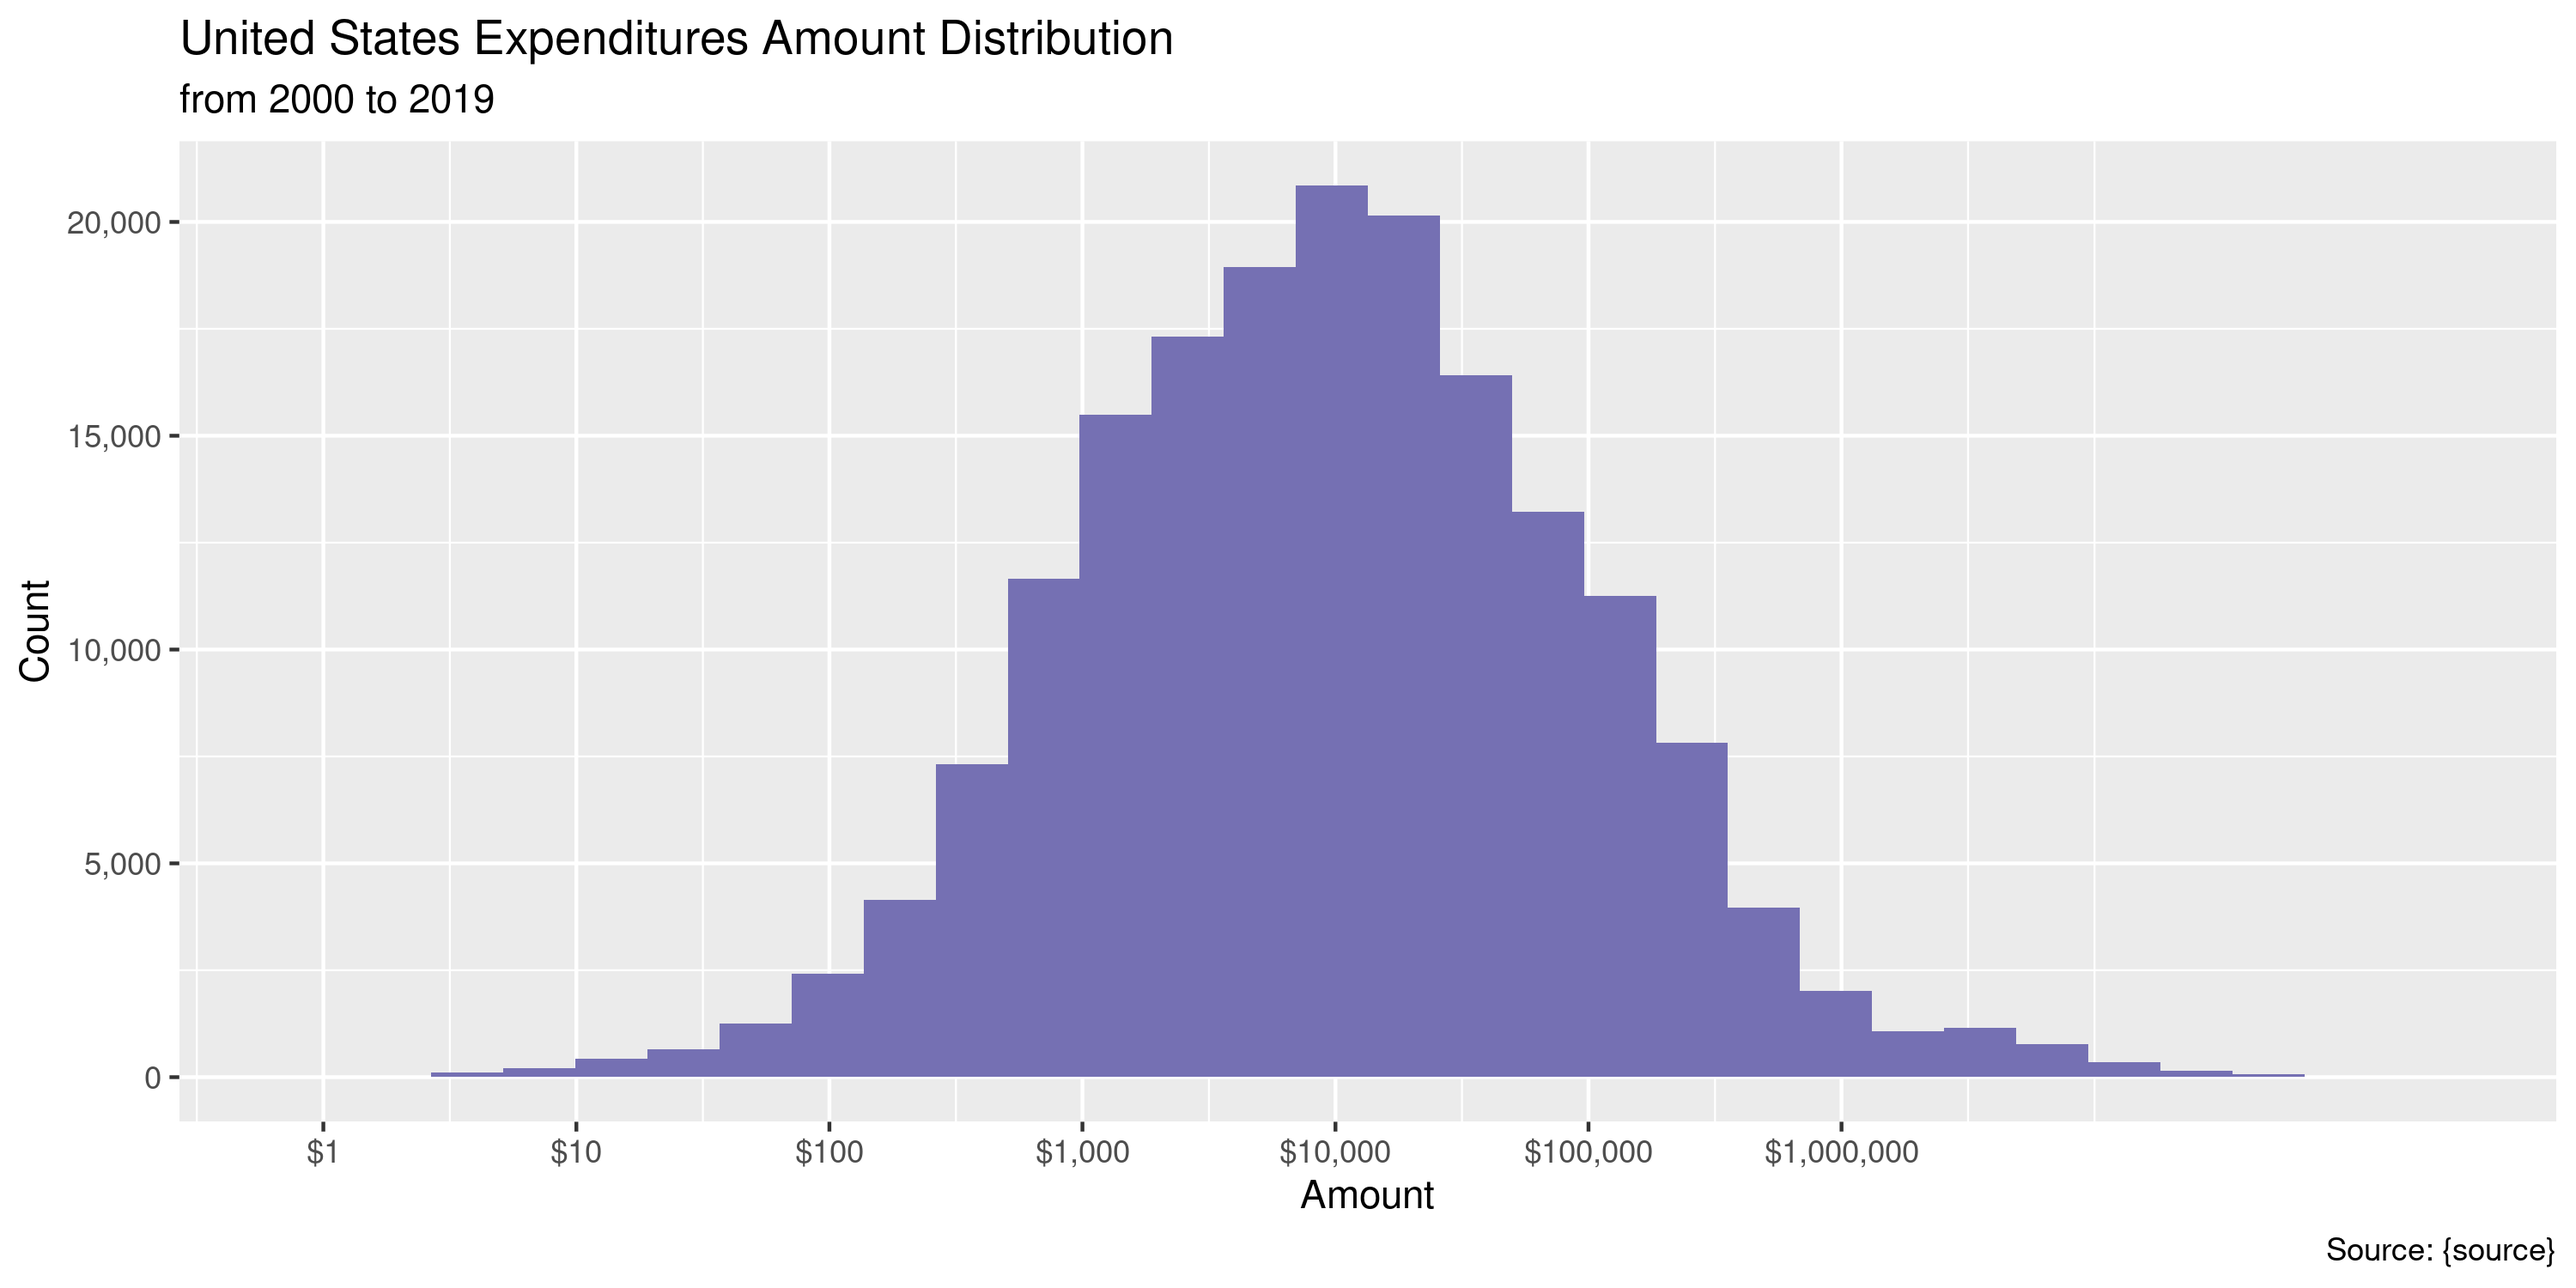
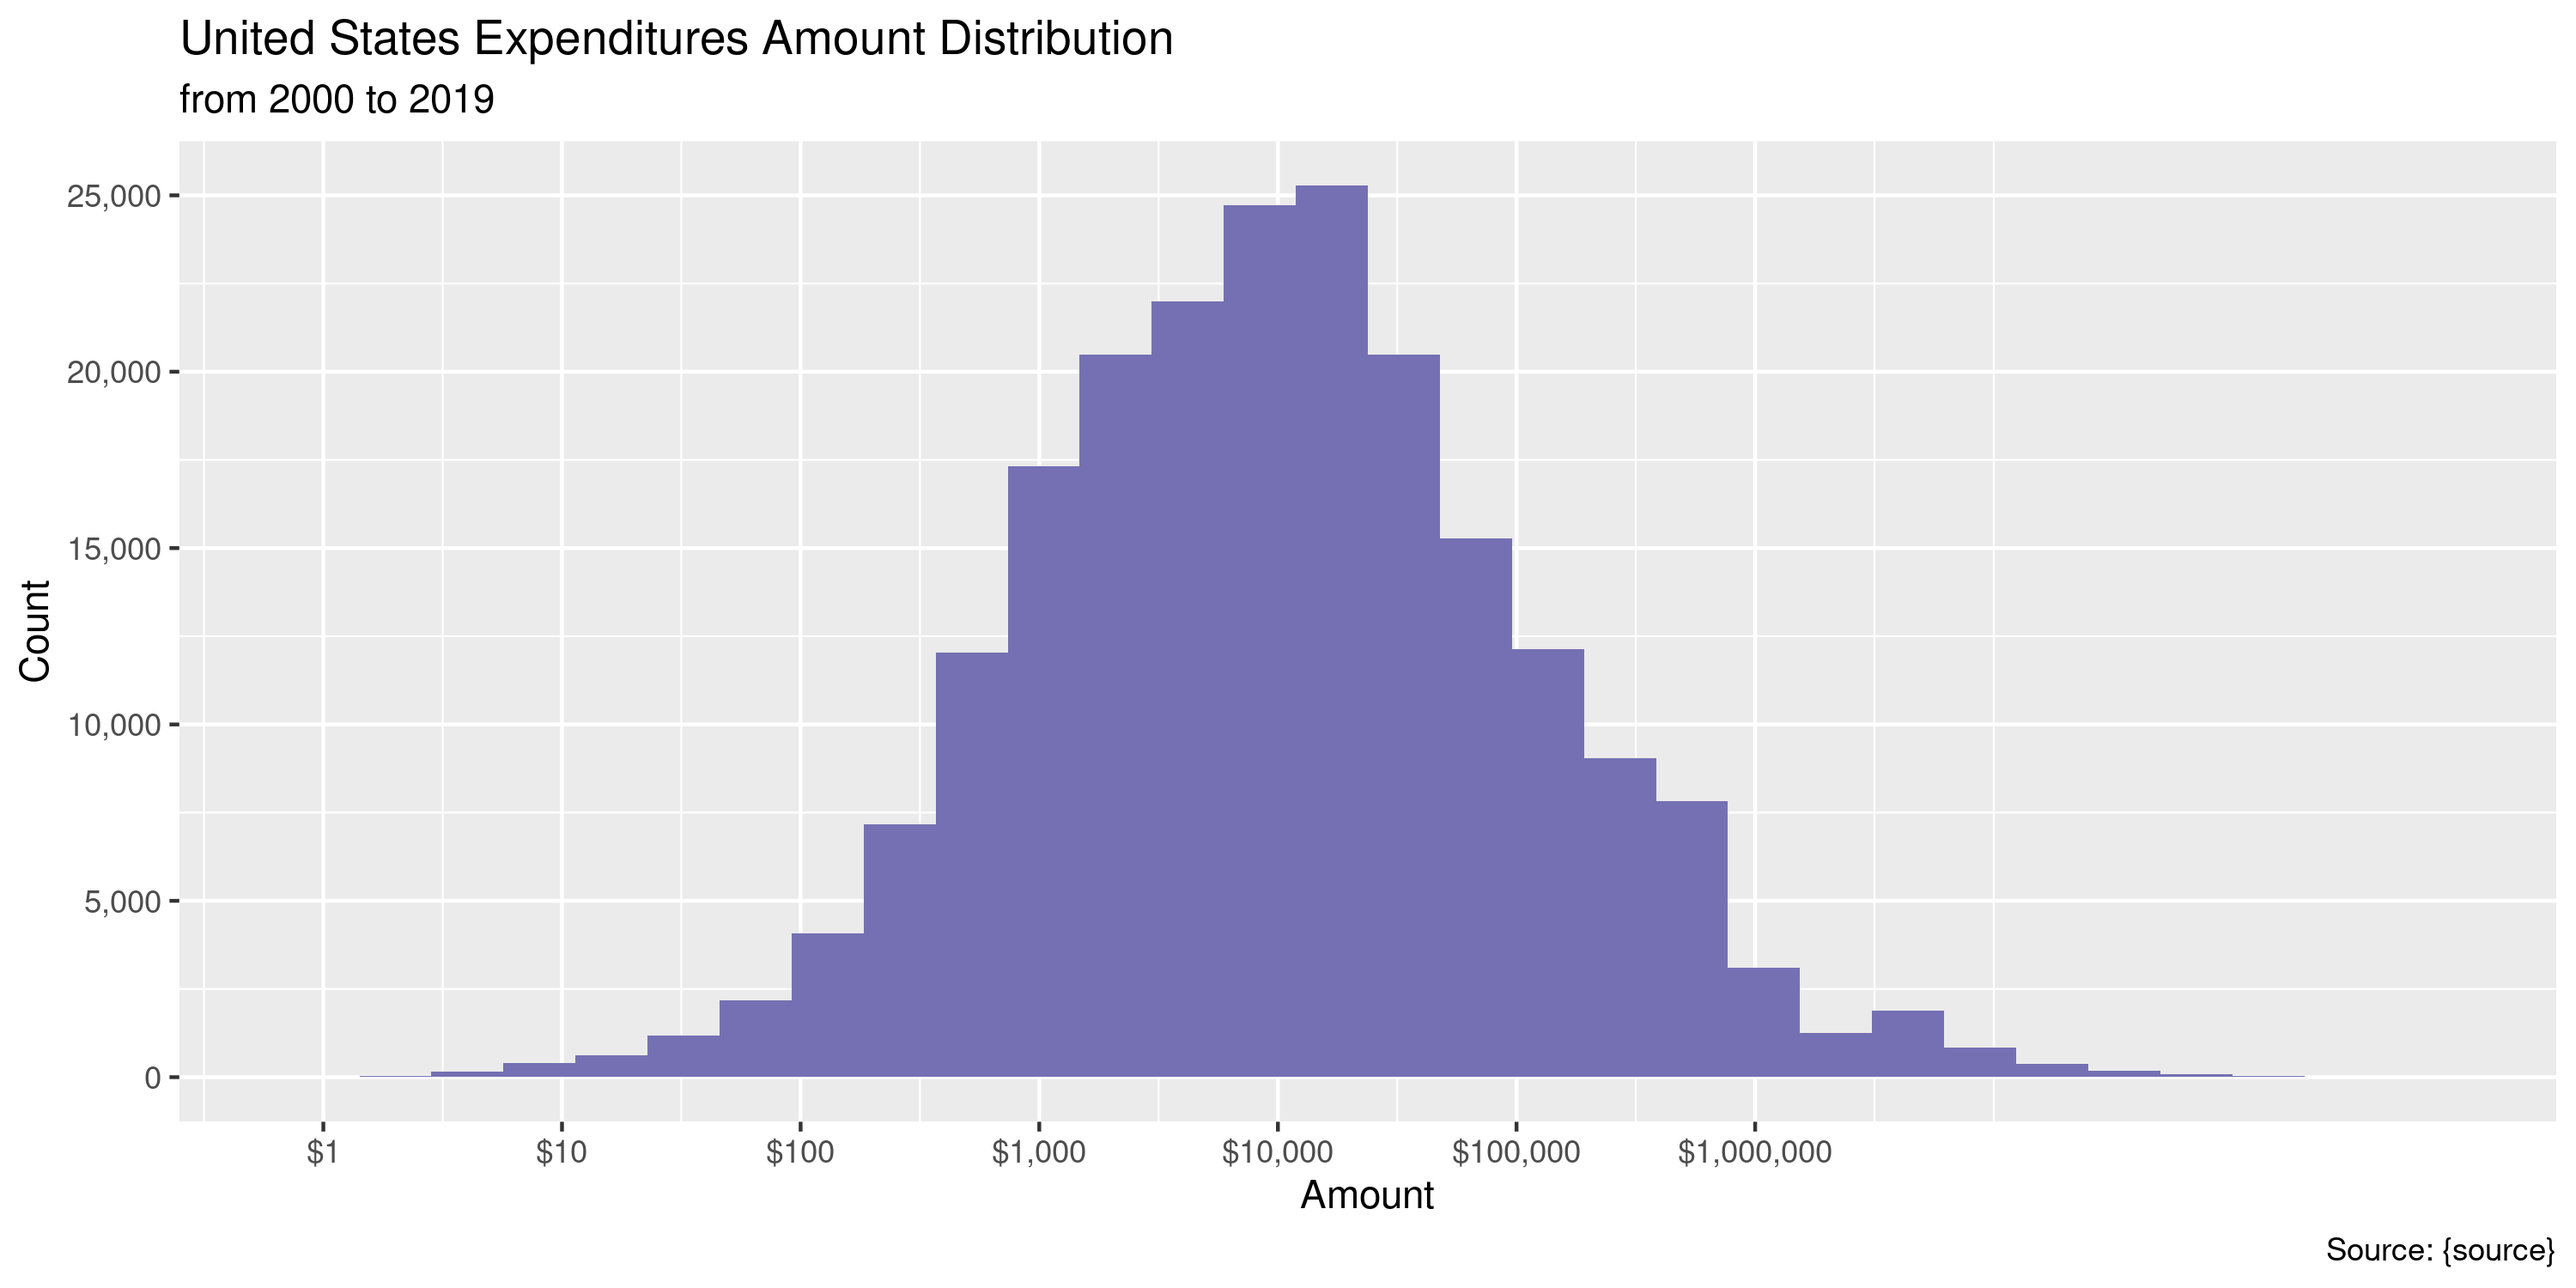
Update HHS provider releif
Add 30,850 new records

diff --git a/R_campfin/us/covid/hhs_relief/docs/hhs_provider_relief.md b/R_campfin/us/covid/hhs_relief/docs/hhs_provider_relief.md
@@ -1,7 +1,7 @@
 HHS Provider Relief Fund
 ================
 Kiernan Nicholls
-2020-05-22 14:35:27
+2020-06-23 13:13:58
 
   - [Project](#project)
   - [Objectives](#objectives)
@@ -162,23 +162,23 @@ alphabetically.
 
 ``` r
 glimpse(hhspr)
-#> Rows: 179,305
+#> Rows: 210,155
 #> Columns: 5
 #> $ agency   <chr> "Health Resources and Services Administration", "Health Resources and Services …
-#> $ provider <chr> "Eastern Aleutian Tribes, Inc.", "Elizabeth Watney", "A Joint Effort Physical T…
+#> $ provider <chr> "Elizabeth Watney", "A Joint Effort Physical Therapy Inc", "Aa Pain Clinic, Inc…
 #> $ state    <chr> "AK", "AK", "AK", "AK", "AK", "AK", "AK", "AK", "AK", "AK", "AK", "AK", "AK", "…
-#> $ city     <chr> "ADAK", "ANCHOR POINT", "ANCHORAGE", "ANCHORAGE", "ANCHORAGE", "ANCHORAGE", "AN…
-#> $ payment  <dbl> 2538, 724, 5953, 69976, 33655, 2813, 8781, 27497, 10823, 50053, 217156, 39435, …
+#> $ city     <chr> "ANCHOR POINT", "ANCHORAGE", "ANCHORAGE", "ANCHORAGE", "ANCHORAGE", "ANCHORAGE"…
+#> $ payment  <dbl> 724, 5953, 69976, 1181, 33655, 6301, 9327, 10555, 8781, 28000, 4616, 10823, 129…
 tail(hhspr)
 #> # A tibble: 6 x 5
-#>   agency                                       provider                      state city    payment
-#>   <chr>                                        <chr>                         <chr> <chr>     <dbl>
-#> 1 Health Resources and Services Administration Peak Physical Therapy Inc     WY    WILSON     9302
-#> 2 Health Resources and Services Administration Cloud Peak Chiropractic, P.C. WY    WORLAND    2961
-#> 3 Health Resources and Services Administration Cloud Peak Counseling Center  WY    WORLAND    3083
-#> 4 Health Resources and Services Administration County Of Washakie            WY    WORLAND   13861
-#> 5 Health Resources and Services Administration Washakie Medical Center       WY    WORLAND  769007
-#> 6 Health Resources and Services Administration Worland Pharmacy Inc          WY    WORLAND     137
+#>   agency                          provider                                     state city   payment
+#>   <chr>                           <chr>                                        <chr> <chr>    <dbl>
+#> 1 Health Resources and Services … Cloud Peak Chiropractic, P.C.                WY    WORLA…    2961
+#> 2 Health Resources and Services … Cloud Peak Counseling Center                 WY    WORLA…    3083
+#> 3 Health Resources and Services … County Of Washakie                           WY    WORLA…   13861
+#> 4 Health Resources and Services … Urological Services Of Northern Wyoming Pro… WY    WORLA…    8883
+#> 5 Health Resources and Services … Worland Pharmacy Inc                         WY    WORLA…     137
+#> 6 Health Resources and Services … Worland Physical Therapy                     WY    WORLA…   11498
 ```
 
 ### Missing
@@ -197,23 +197,14 @@ col_stats(hhspr, count_na)
 #> 5 payment  <dbl>     0     0
 ```
 
-### Duplicates
-
-There are no duplicate records.
-
-``` r
-hhspr <- flag_dupes(hhspr, everything())
-#> Warning in flag_dupes(hhspr, everything()): no duplicate rows, column not created
-```
-
 ### Amounts
 
-The `payment` values range from $1 to $180,264,488.
+The `payment` values range from $1 to $567,285,060.
 
 ``` r
 noquote(map_chr(summary(hhspr$payment), dollar))
 #>         Min.      1st Qu.       Median         Mean      3rd Qu.         Max. 
-#>           $1       $1,960       $9,462     $190,115      $43,502 $180,264,488
+#>           $1       $1,910       $9,740     $266,501      $46,724 $567,285,060
 mean(hhspr$payment <= 0) # no negatives
 #> [1] 0
 ```
@@ -225,12 +216,12 @@ hhspr[which.min(hhspr$payment), ]
 #> # A tibble: 1 x 5
 #>   agency                                       provider                       state city  payment
 #>   <chr>                                        <chr>                          <chr> <chr>   <dbl>
-#> 1 Health Resources and Services Administration Your Doctor'S After Hours, Llc GA    MACON       1
+#> 1 Health Resources and Services Administration Your Doctor'S After Hours, Llc GA    GRAY        1
 hhspr[which.max(hhspr$payment), ]
 #> # A tibble: 1 x 5
-#>   agency                                       provider       state city      payment
-#>   <chr>                                        <chr>          <chr> <chr>       <dbl>
-#> 1 Health Resources and Services Administration Dignity Health AZ    PHOENIX 180264488
+#>   agency                                  provider                           state city     payment
+#>   <chr>                                   <chr>                              <chr> <chr>      <dbl>
+#> 1 Health Resources and Services Administ… The New York And Presbyterian Hos… NY    NEW YO…   5.67e8
 ```
 
 The distribution of `payment` is logarithmically-normally distributed, a
@@ -258,16 +249,16 @@ add_prop(count(hhspr, state, sort = TRUE))
 #> # A tibble: 55 x 3
 #>    state     n      p
 #>    <chr> <int>  <dbl>
-#>  1 CA    19665 0.110 
-#>  2 TX    14104 0.0787
-#>  3 NY    13776 0.0768
-#>  4 FL    12433 0.0693
-#>  5 NJ     7734 0.0431
-#>  6 PA     7292 0.0407
-#>  7 IL     7098 0.0396
-#>  8 MI     6465 0.0361
-#>  9 OH     5853 0.0326
-#> 10 GA     4885 0.0272
+#>  1 CA    23286 0.111 
+#>  2 TX    16815 0.0800
+#>  3 NY    16153 0.0769
+#>  4 FL    14444 0.0687
+#>  5 NJ     8877 0.0422
+#>  6 IL     8494 0.0404
+#>  7 PA     8346 0.0397
+#>  8 MI     7411 0.0353
+#>  9 OH     6890 0.0328
+#> 10 GA     5749 0.0274
 #> # … with 45 more rows
 ```
 
@@ -276,7 +267,7 @@ add_prop(count(hhspr, state, sort = TRUE))
 ``` r
 many_city <- c(valid_city, extra_city)
 percent(prop_in(hhspr$city, many_city), 0.01)
-#> [1] "98.13%"
+#> [1] "98.14%"
 ```
 
 The only different between the `city` column and our list of known
@@ -287,31 +278,33 @@ hhspr %>%
   filter(city %out% many_city) %>% 
   count(city, state, sort = TRUE) %>% 
   add_prop(n = n)
-#> # A tibble: 1,247 x 4
+#> # A tibble: 1,464 x 4
 #>    city             state     n      p
 #>    <chr>            <chr> <int>  <dbl>
-#>  1 ST PETERSBURG    FL      156 0.0465
-#>  2 FARMINGTON HILLS MI      129 0.0385
-#>  3 ST LOUIS         MO       99 0.0295
-#>  4 PORT ST LUCIE    FL       80 0.0238
-#>  5 ST GEORGE        UT       63 0.0188
-#>  6 SHELBY TOWNSHIP  MI       61 0.0182
-#>  7 ST AUGUSTINE     FL       60 0.0179
-#>  8 FT LAUDERDALE    FL       58 0.0173
-#>  9 MANALAPAN        NJ       56 0.0167
-#> 10 LUTHERVILLE      MD       45 0.0134
-#> # … with 1,237 more rows
+#>  1 ST PETERSBURG    FL      164 0.0420
+#>  2 FARMINGTON HILLS MI      146 0.0374
+#>  3 ST LOUIS         MO      127 0.0325
+#>  4 PORT ST LUCIE    FL       97 0.0248
+#>  5 ST GEORGE        UT       74 0.0190
+#>  6 ST AUGUSTINE     FL       72 0.0184
+#>  7 MANALAPAN        NJ       66 0.0169
+#>  8 SHELBY TOWNSHIP  MI       63 0.0161
+#>  9 FT LAUDERDALE    FL       60 0.0154
+#> 10 LUTHERVILLE      MD       49 0.0126
+#> # … with 1,454 more rows
 ```
 
 ``` r
 hhspr <- mutate(hhspr, across(city, normal_city, abbs = usps_city))
 percent(prop_in(hhspr$city, many_city), 0.01)
-#> [1] "99.00%"
+#> [1] "99.02%"
 ```
+
+We can also add “US” as the state spending the money.
 
 ## Conclude
 
-1.  There are 179,305 records in the database.
+1.  There are 210,155 records in the database.
 2.  There are 0 duplicate records in the database.
 3.  The range and distribution of `amount` seems reasonable.
 4.  There are 0 records missing key variables.
@@ -329,30 +322,23 @@ clean_dir <- dir_create(here("us", "covid", "hhs_relief", "data", "clean"))
 clean_path <- path(clean_dir, "hhs_provider_relief.csv")
 write_csv(hhspr, clean_path, na = "")
 file_size(clean_path)
-#> 16.5M
-mutate(file_encoding(clean_path), across(path, basename))
+#> 19.3M
+mutate(file_encoding(clean_path), across(path, path.abbrev))
 #> # A tibble: 1 x 3
-#>   path                    mime            charset 
-#>   <chr>                   <chr>           <chr>   
-#> 1 hhs_provider_relief.csv application/csv us-ascii
+#>   path                                                     mime            charset 
+#>   <chr>                                                    <chr>           <chr>   
+#> 1 ~/us/covid/hhs_relief/data/clean/hhs_provider_relief.csv application/csv us-ascii
 ```
 
 ## Dictionary
 
 The following table describes the variables in our final exported file:
 
-| Column     | Type        | Definition                                                                   |
-| :--------- | :---------- | :--------------------------------------------------------------------------- |
-| `agency`   | `character` | Distributing agency name                                                     |
-| `provider` | `character` | Provider name associated with the billing TIN to whom the payment was issued |
-| `state`    | `character` | Provider city name (with expanded abbreviations)                             |
-| `city`     | `character` | Provider state abbreviation                                                  |
-| `payment`  | `double`    | The cumulative payment that the provider has received AND attested to        |
-| `year`     | `double`    | Current calendar year                                                        |
-
-``` r
-write_lines(
-  x = c("# HHS Provider Relief Data Dictionary\n", dict_md),
-  path = here("us", "covid", "hhs_relief_dict.md"),
-)
-```
+| Column     | Type        | Definition                                       |
+| :--------- | :---------- | :----------------------------------------------- |
+| `agency`   | `character` | Distributing agency name                         |
+| `provider` | `character` | Provider name associated with the billing TIN    |
+| `state`    | `character` | Provider state abbreviation                      |
+| `city`     | `character` | Provider city name (with expanded abbreviations) |
+| `payment`  | `double`    | The cumulative payment that the provider         |
+| `year`     | `double`    | Current calendar year                            |
